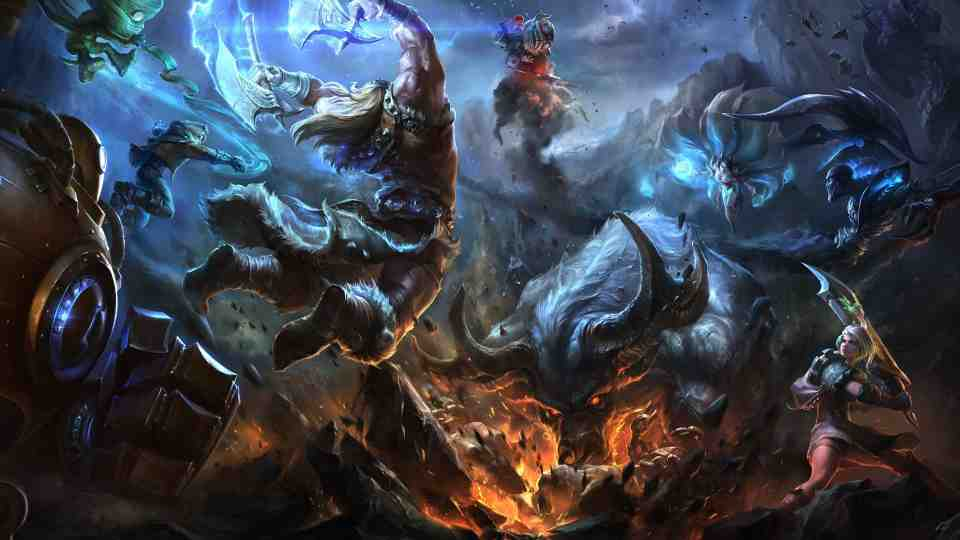
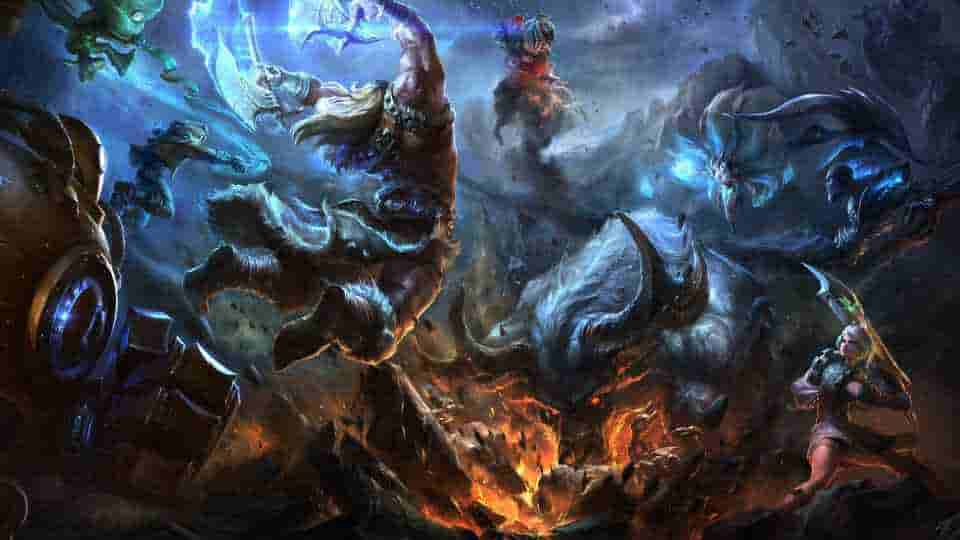
fix performance

diff --git a/components/ui/p2e/p2e.module.sass b/components/ui/p2e/p2e.module.sass
@@ -98,126 +98,6 @@
     align-items: center
   .lucisPoint
     color: #DF9B16
-.recentMatchList
-  margin-bottom: 20px
-  .recentMatchHeaderList
-    background: rgba(23, 29, 46, 0.8)
-    backdrop-filter: blur(40px)
-    h2
-      font-weight: 600
-      font-size: 18px
-      line-height: 27px
-      margin: 0
-    .recentMatchHeaderItem
-      display: flex
-      flex-direction: column
-      justify-content: center
-      align-items: center
-      h2
-        color: #fff
-  .recentMatchContentItem
-    display: flex
-    flex-direction: column
-    justify-content: center
-    align-items: center
-    height: 50px
-    margin-top: 22.5px
-    border-right: 0.5px solid rgba(166, 166, 166, 0.32)
-    img
-      margin-bottom: 6px
-    span
-      font-size: 20px
-  .recentMatchItem
-    background-repeat: no-repeat !important
-    background-size: cover
-    background-position: center
-    cursor: pointer
-    // border: 1px solid transparent
-    @media screen and ( max-width: 574px )
-      border-radius: 4px !important
-
-  .recentMatchItem:hover
-    border: 1px solid rgba(0, 255, 255, 0.8)
-    box-shadow: inset 0px 1px 16px rgba(0, 255, 255, 0.8)
-    height: 95px
-
-  .recentMatchResult
-    display: flex
-    flex-direction: column
-    justify-content: center
-    align-items: center
-    height: 100%
-    color: #DBE0E8
-    span
-      font-size: 16px
-      font-weight: bold
-      line-height: 24px
-    .mapName
-      font-style: normal
-      font-weight: 400
-      font-size: 12px
-      line-height: 18px
-      border-bottom: 1px solid #DBE0E8
-    .endTime
-      font-weight: 500
-      font-size: 14px
-      line-height: 21px
-  .scoreMatch
-    display: flex
-    height: 95px
-    font-size: 24px
-    font-weight: 500
-    line-height: 36px
-    // flex-direction: column
-    justify-content: center
-    align-items: center
-  .recentMatchTime
-    display: flex
-    // height: 95px
-    height: 100%
-    font-size: 14px
-    font-weight: 400
-    line-height: 21px
-    // flex-direction: column
-    justify-content: center
-    align-items: center
-  .recentMatchTimeResponsive
-    display: flex
-    // height: 95px
-    height: 100%
-    font-size: 14px
-    font-weight: 400
-    line-height: 21px
-    // flex-direction: column
-    justify-content: flex-end
-    align-items: center
-    padding: 8px 12px
-    padding-top: 0
-  .recentMatchRewardResponsive
-    display: flex
-    // height: 95px
-    height: 100%
-    font-size: 14px
-    font-weight: 400
-    line-height: 21px
-    // flex-direction: column
-    justify-content: flex-start
-    align-items: center
-    padding: 8px 12px
-    padding-top: 0
-  .recentMatchReward
-    display: flex
-    // height: 95px
-    height: 100%
-    font-size: 14px
-    font-weight: 400
-    line-height: 21px
-    // flex-direction: column
-    // justify-content: space-around
-    align-items: center
-    .rewardItem
-      justify-content: flex-end
-      padding-right: 32px
 .blankState
   width: 100%
   padding: 10px
@@ -229,23 +109,6 @@
     transform: rotate(360deg)
   100%
     transform: rotate(0deg)
-.recentMatchTitle
-  margin-top: 44px
-  margin-bottom: 24px
-  display: flex
-  justify-content: space-between
-  align-items: center
-  h2
-    img
-      @media screen and ( max-width: 992px )
-        display: none
-  .recentMatchRewardGeneral
-    display: flex
-    font-size: 14px
-    font-weight: 400
-    line-height: 21px
-    justify-content: flex-end
-    align-items: center
 
 .walletTitle
   margin-bottom: 16px
@@ -310,9 +173,9 @@
         @media screen and ( max-width: 1200px )
           font-size: 10px
           padding: 0px 15px 0px 8px
-          @media screen and ( max-width: 992px )
-            font-size: 14px
-            padding: 0 30px 0 16px
+        @media screen and ( max-width: 992px )
+          font-size: 14px
+          padding: 0 30px 0 16px
     .shareBonus
       display: flex
       justify-content: space-between

diff --git a/components/ui/p2e/p2eWrapper/w.module.sass b/components/ui/p2e/p2eWrapper/w.module.sass
@@ -1,13 +1,36 @@
 
 .backgroundCSGO
-  background-image: linear-gradient(0deg, rgba(23, 29, 46, 0.8), rgba(23, 29, 46, 0.8)), url("/assets/P2E/csgo/background.jpg")
+  overflow: hidden // added for pseudo-element
+  position: relative
+  &::before
+    content: ''
+    position: fixed
+    width: 100%
+    height: 100%
+    top: 0
+    left: 0
+    background-size: cover
+    background-repeat: no-repeat
+    background-position: center
+    will-change: transform // creates a new paint layer
+    background-image: linear-gradient(0deg, rgba(23, 29, 46, 0.8), rgba(23, 29, 46, 0.8)), url("/assets/P2E/csgo/background.jpg")
 .backgroundLOL
-  background-image: linear-gradient(0deg, rgba(23, 29, 46, 0.8), rgba(23, 29, 46, 0.8)), url("/assets/P2E/lol/background.jpg")
+  overflow: hidden // added for pseudo-element
+  position: relative
+  &::before
+    content: ''
+    position: fixed
+    width: 100%
+    height: 100%
+    top: 0
+    left: 0
+    background-size: cover
+    background-repeat: no-repeat
+    background-position: center
+    will-change: transform // creates a new paint layer
+    background-image: linear-gradient(0deg, rgba(23, 29, 46, 0.8), rgba(23, 29, 46, 0.8)), url("/assets/P2E/lol/background.jpg")
 .homeWrap
   font-family: 'Poppins'
-  background-repeat: no-repeat
-  background-attachment: fixed
-  background-size: cover
   button
     font-family: 'Revx Neue Demo'
     font-weight: 600

diff --git a/components/ui/p2e/p2eWrapper/index.tsx b/components/ui/p2e/p2eWrapper/index.tsx
@@ -16,7 +16,7 @@ interface IProps {
 
 export default observer(function P2EWrapper(props: IProps) {
   const router = useRouter();
-  const [currentGame, setCurrentGame] = useState<Game>(Game.CSGO);
+  const [currentGame, setCurrentGame] = useState<Game>(Game.LOL);
 
   useEffect(() => {
     if (AuthGameStore.isLoggedInFaceit === true && AuthStore.isLoggedIn === true) {

diff --git a/components/ui/footer/Footer.module.sass b/components/ui/footer/Footer.module.sass
@@ -1,5 +1,5 @@
 .container_footer
-  background: #070a45
+  // background: #070a45
   // background: linear-gradient(177.34deg, rgba(0, 0, 0, 0.2) 2.22%, rgba(255, 255, 255, 0) 97.78%)
   backdrop-filter: blur(42px)
   .content

diff --git a/components/ui/header/Header.module.sass b/components/ui/header/Header.module.sass
@@ -4,6 +4,8 @@
   //position: absolute
   width: 100%
   //z-index: 10
+  z-index: 1
+  position: relative
     
 .menu_container
   color: inherit
